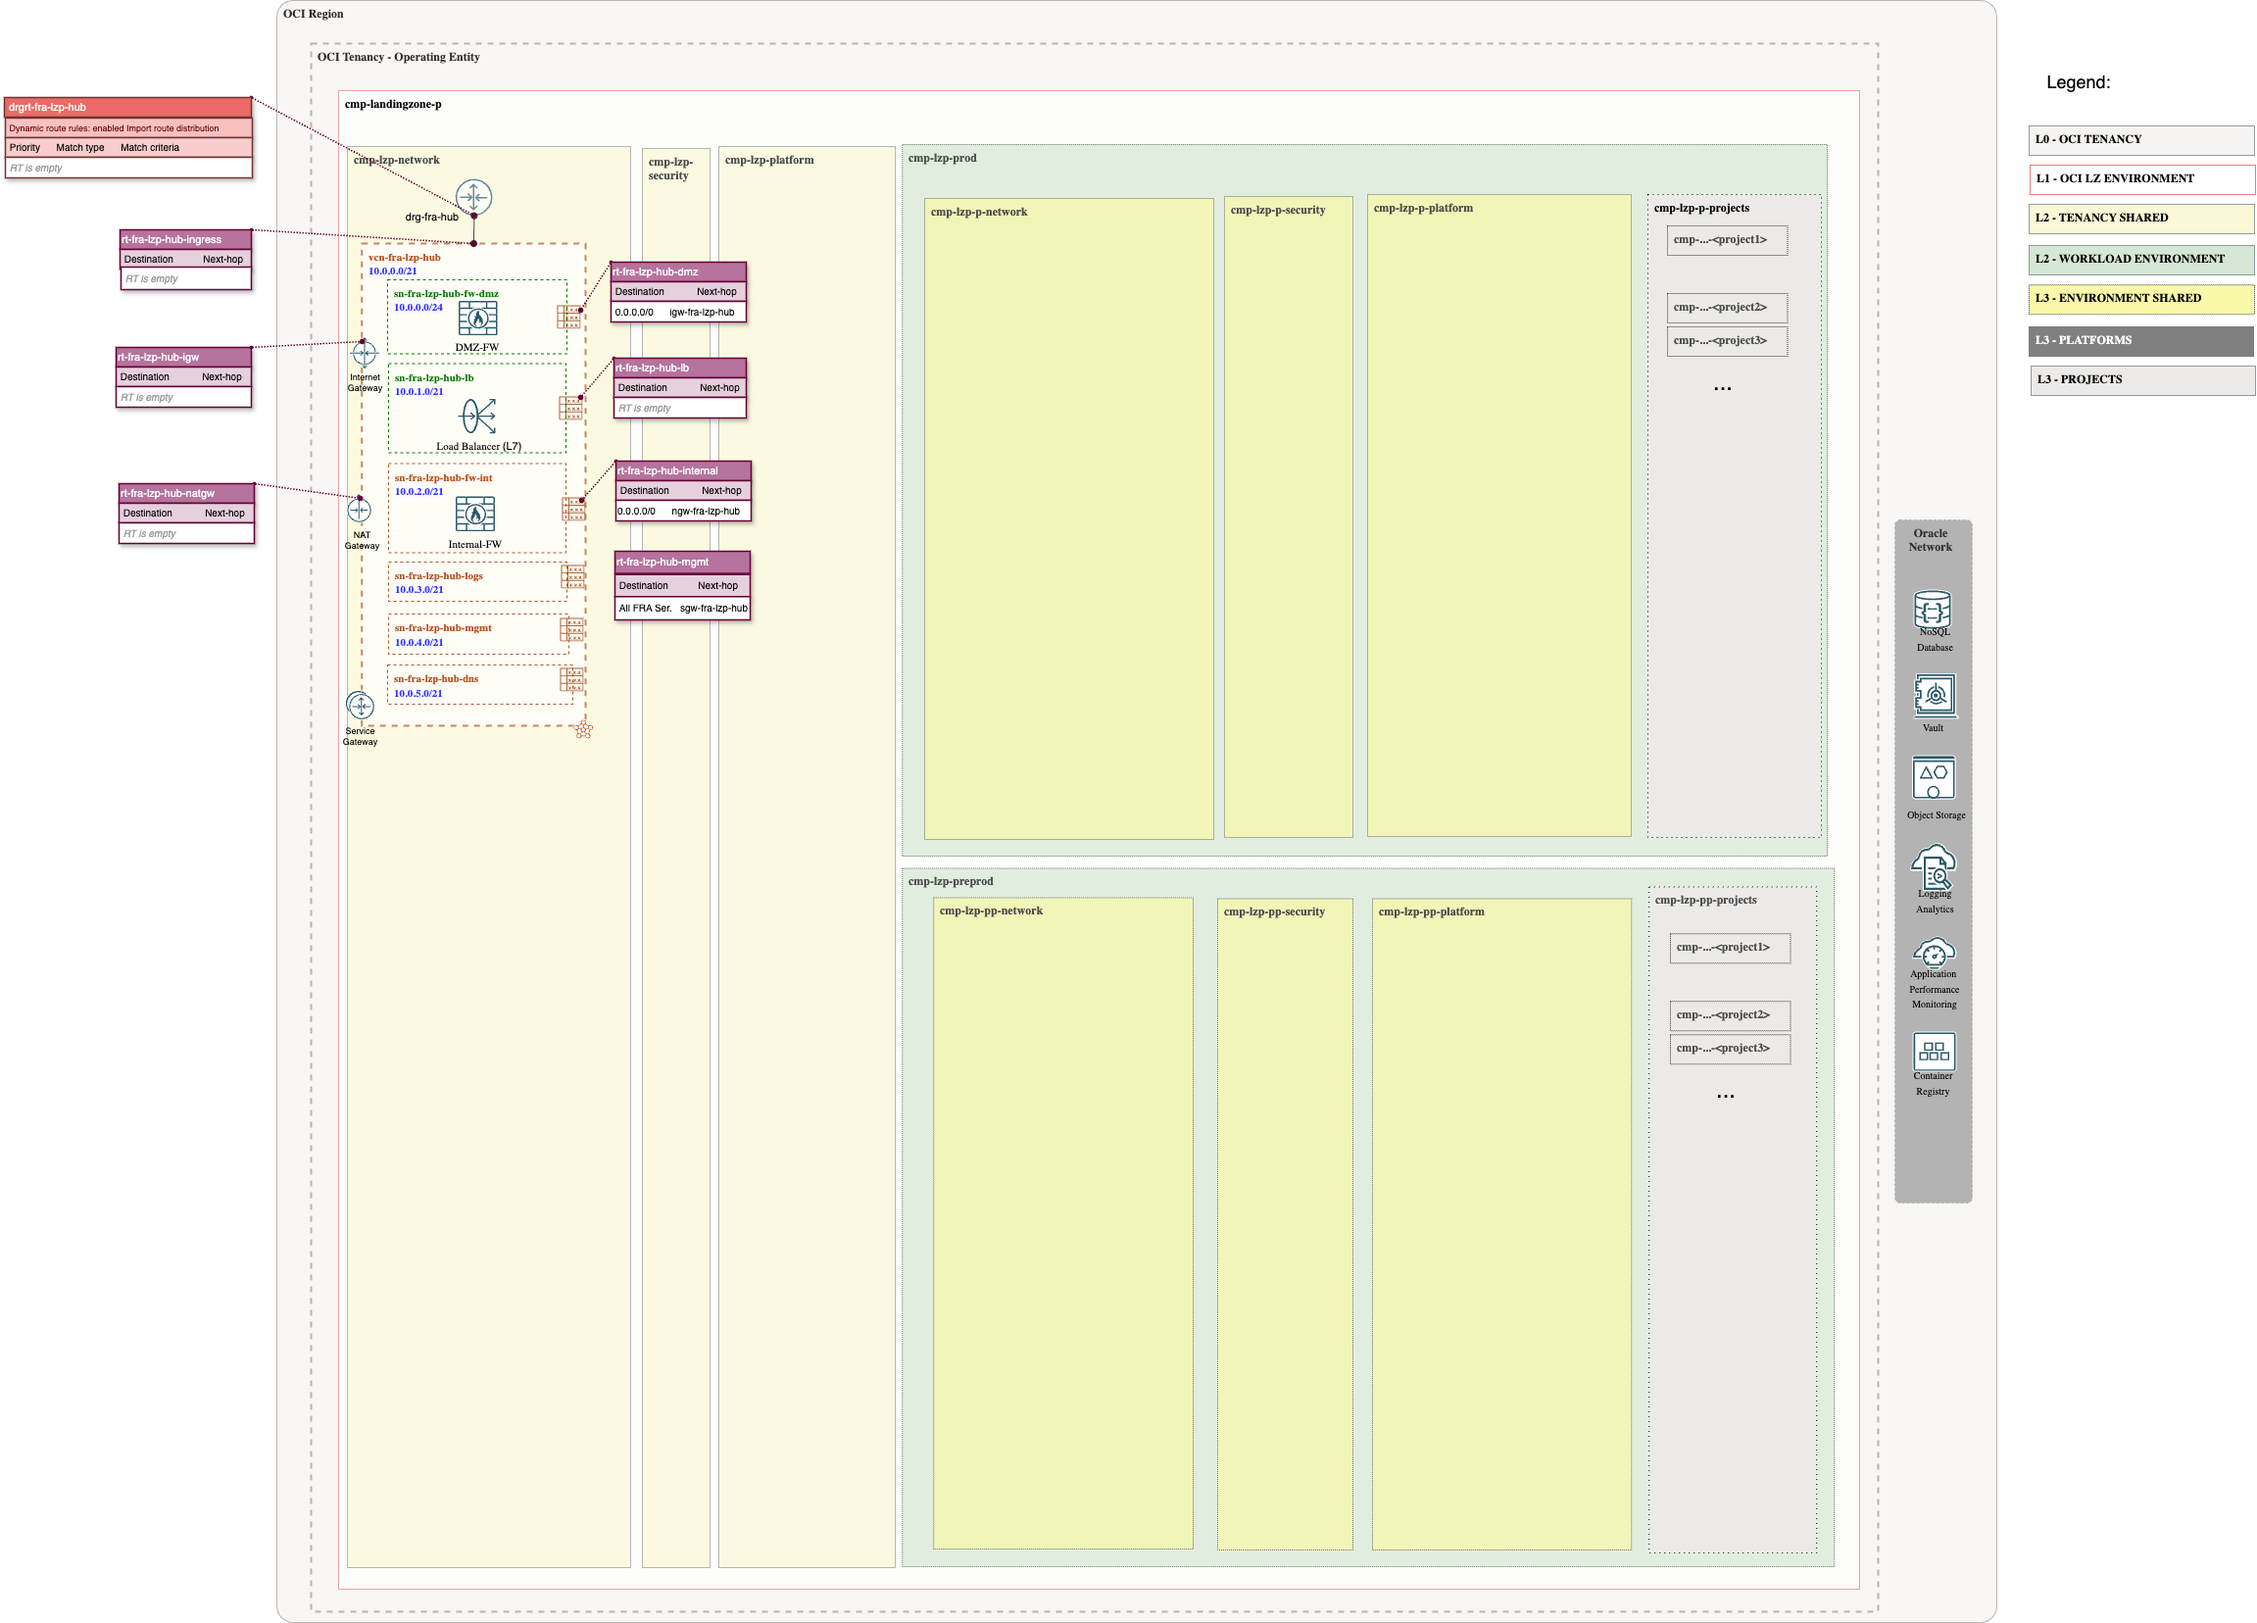
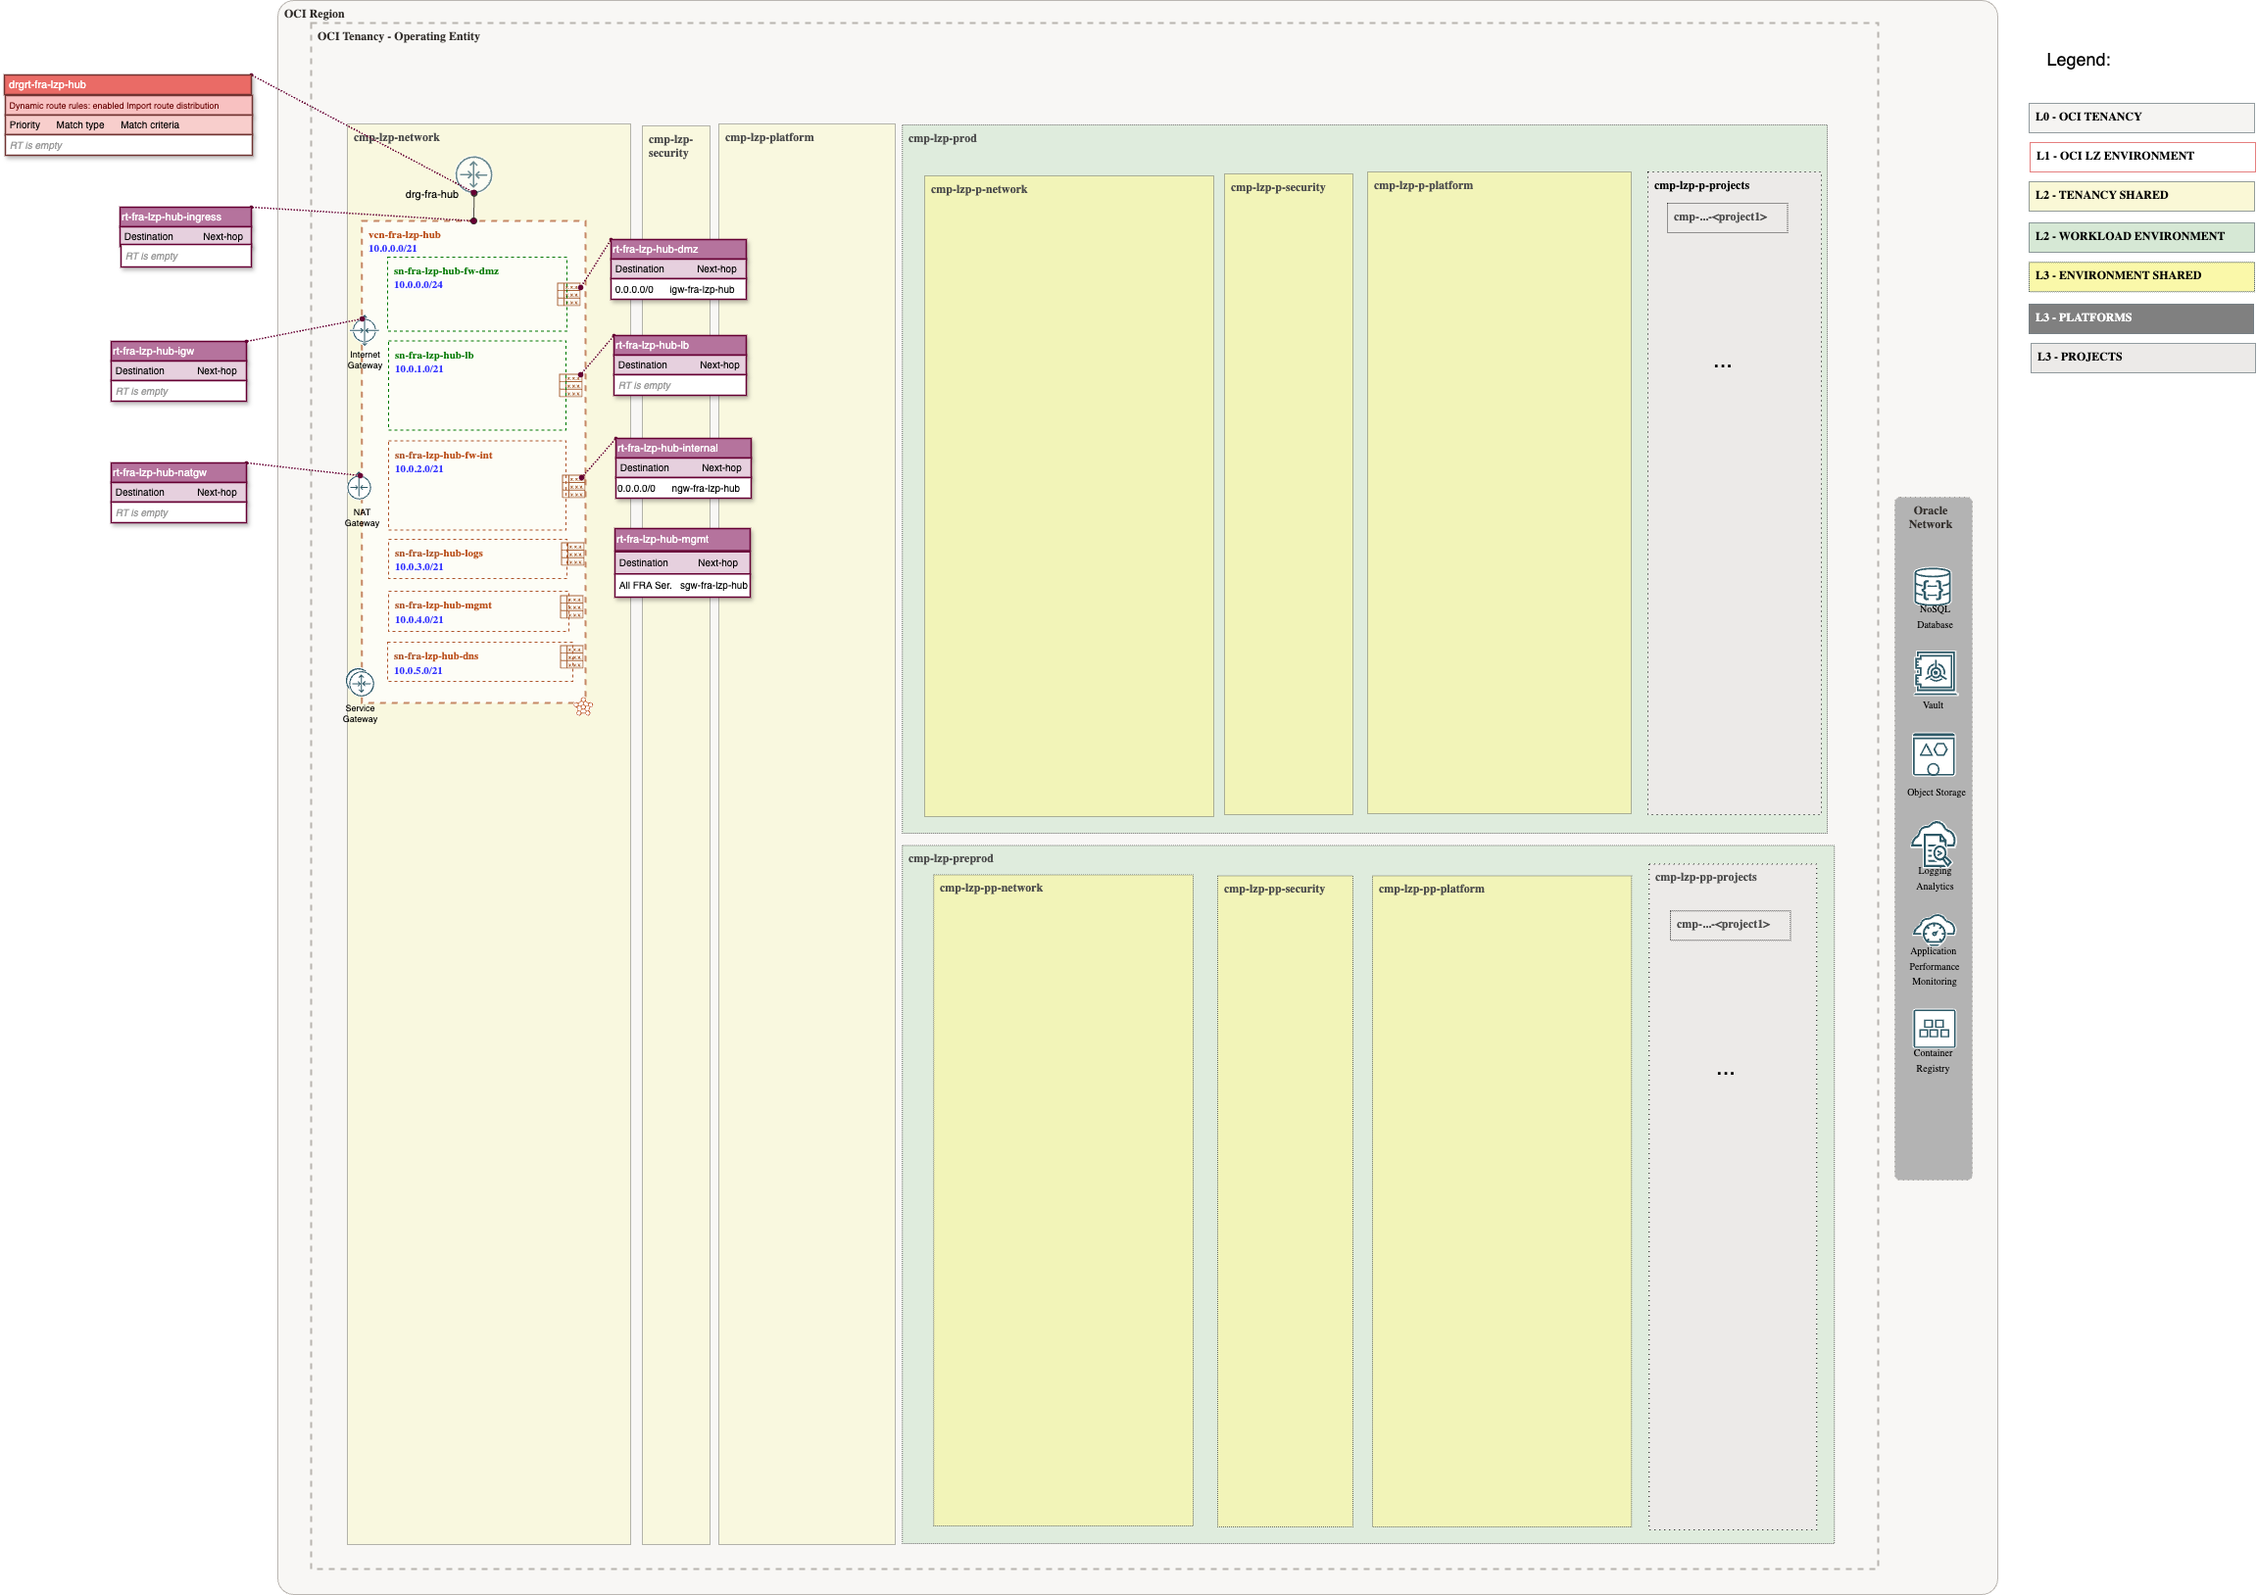
push changes

diff --git a/workload-extensions/oke/multi-stack/1_oke_extension/1.1_Network_post_updates/readme.md b/workload-extensions/oke/multi-stack/1_oke_extension/1.1_Network_post_updates/readme.md
@@ -11,7 +11,7 @@ Model A offer two options: a **Light Version** (No Cost), where a virtual machin
 The next Diagram shows the routing included in the [ONE-OE Hub A Deployment (Light Version - No Cost)](https://github.com/oci-landing-zones/oci-landing-zone-operating-entities/blob/master/addons/oci-hub-models/hub_b/readme.md):
 <img src="../../content/Routing_ONE-OE_HubA.png" width="1000" height="auto">
 
-The next Diagram shows  rounting included in the OKE Ext LZ:
+The next Diagram shows the routing included in the OKE Ext LZ:
 <img src="../../content/Routing_OKE_ext.png" width="1000" height="auto">
 
 The next steps are to add the firewall and update the corresponding routes. To accomplish this, we need to follow the steps outlined in the [Hub A Deployment (Light Version - No Cost)](https://github.com/oci-landing-zones/oci-landing-zone-operating-entities/blob/master/addons/oci-hub-models/hub_a/readme.md)
@@ -53,6 +53,10 @@ Now that the spokes are attached to the hub, you can update their routing by add
 This is the diagram that show the final Network configuration:
 
 <img src="../../content/Final_Routing.png" width="1000" height="auto">
+
+And the complet picture after deploy the OKE clusters:
+
+<img src="../../content/Complete.png" width="1000" height="auto">
 
 &nbsp;
 
